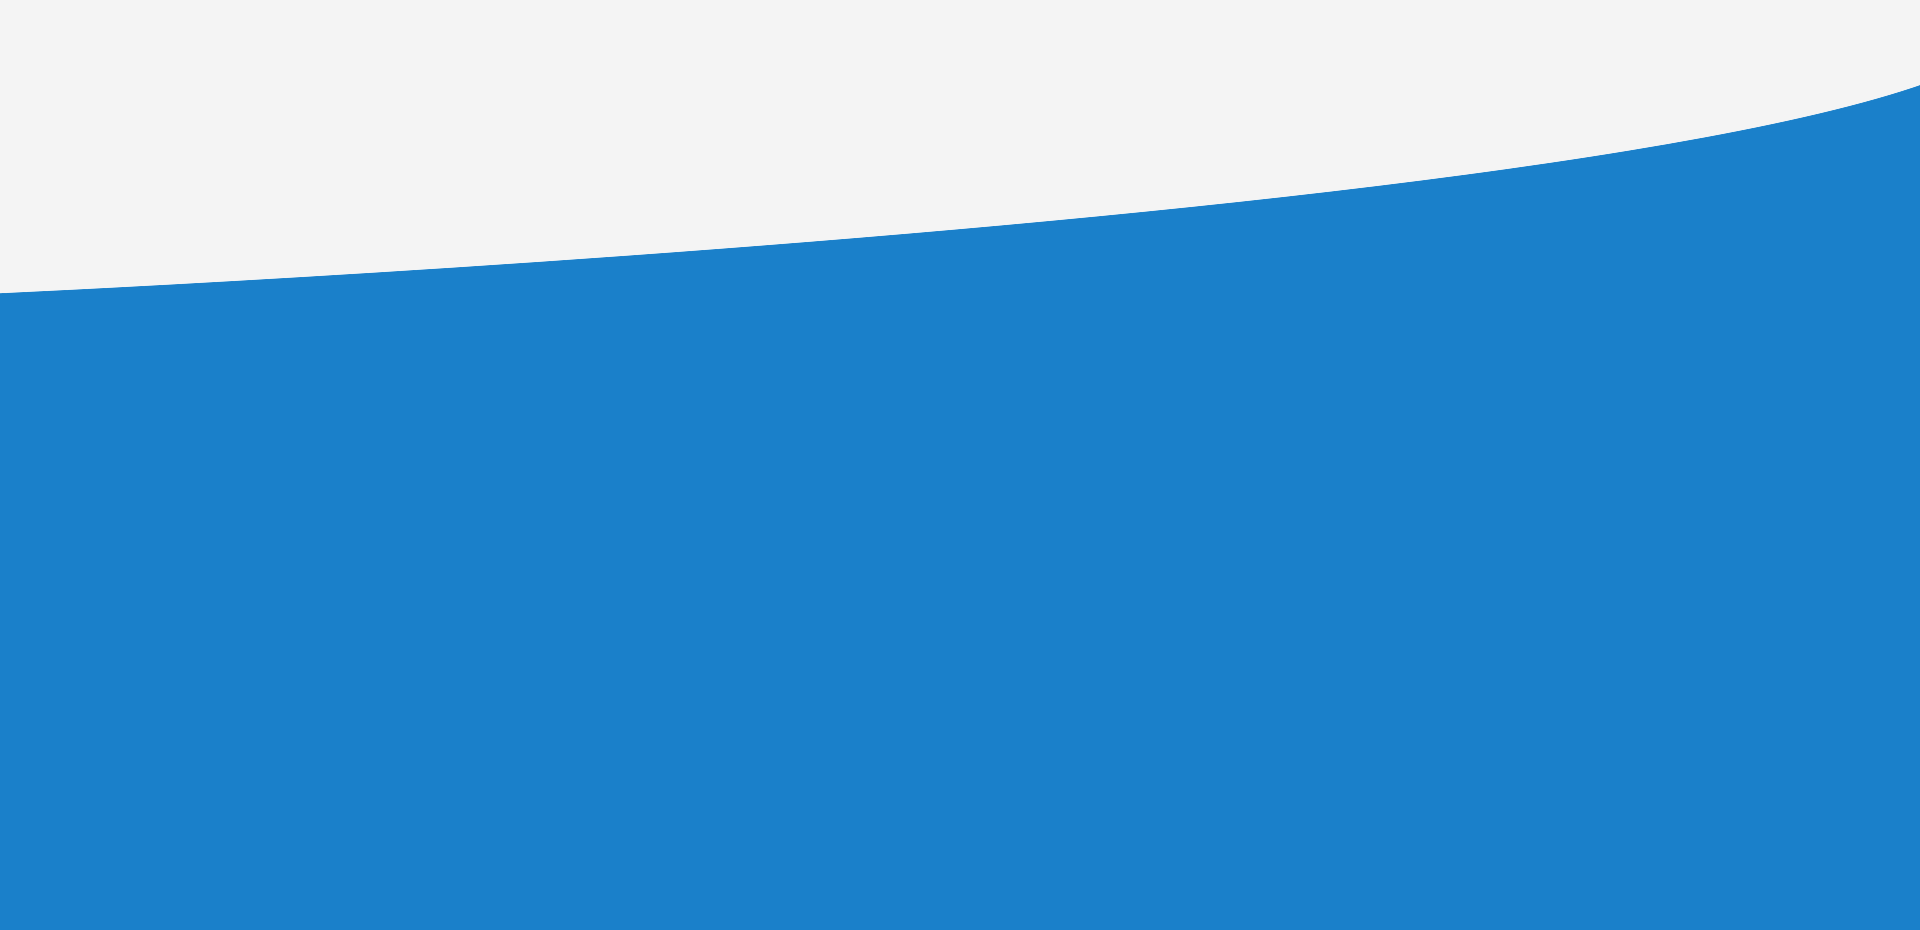
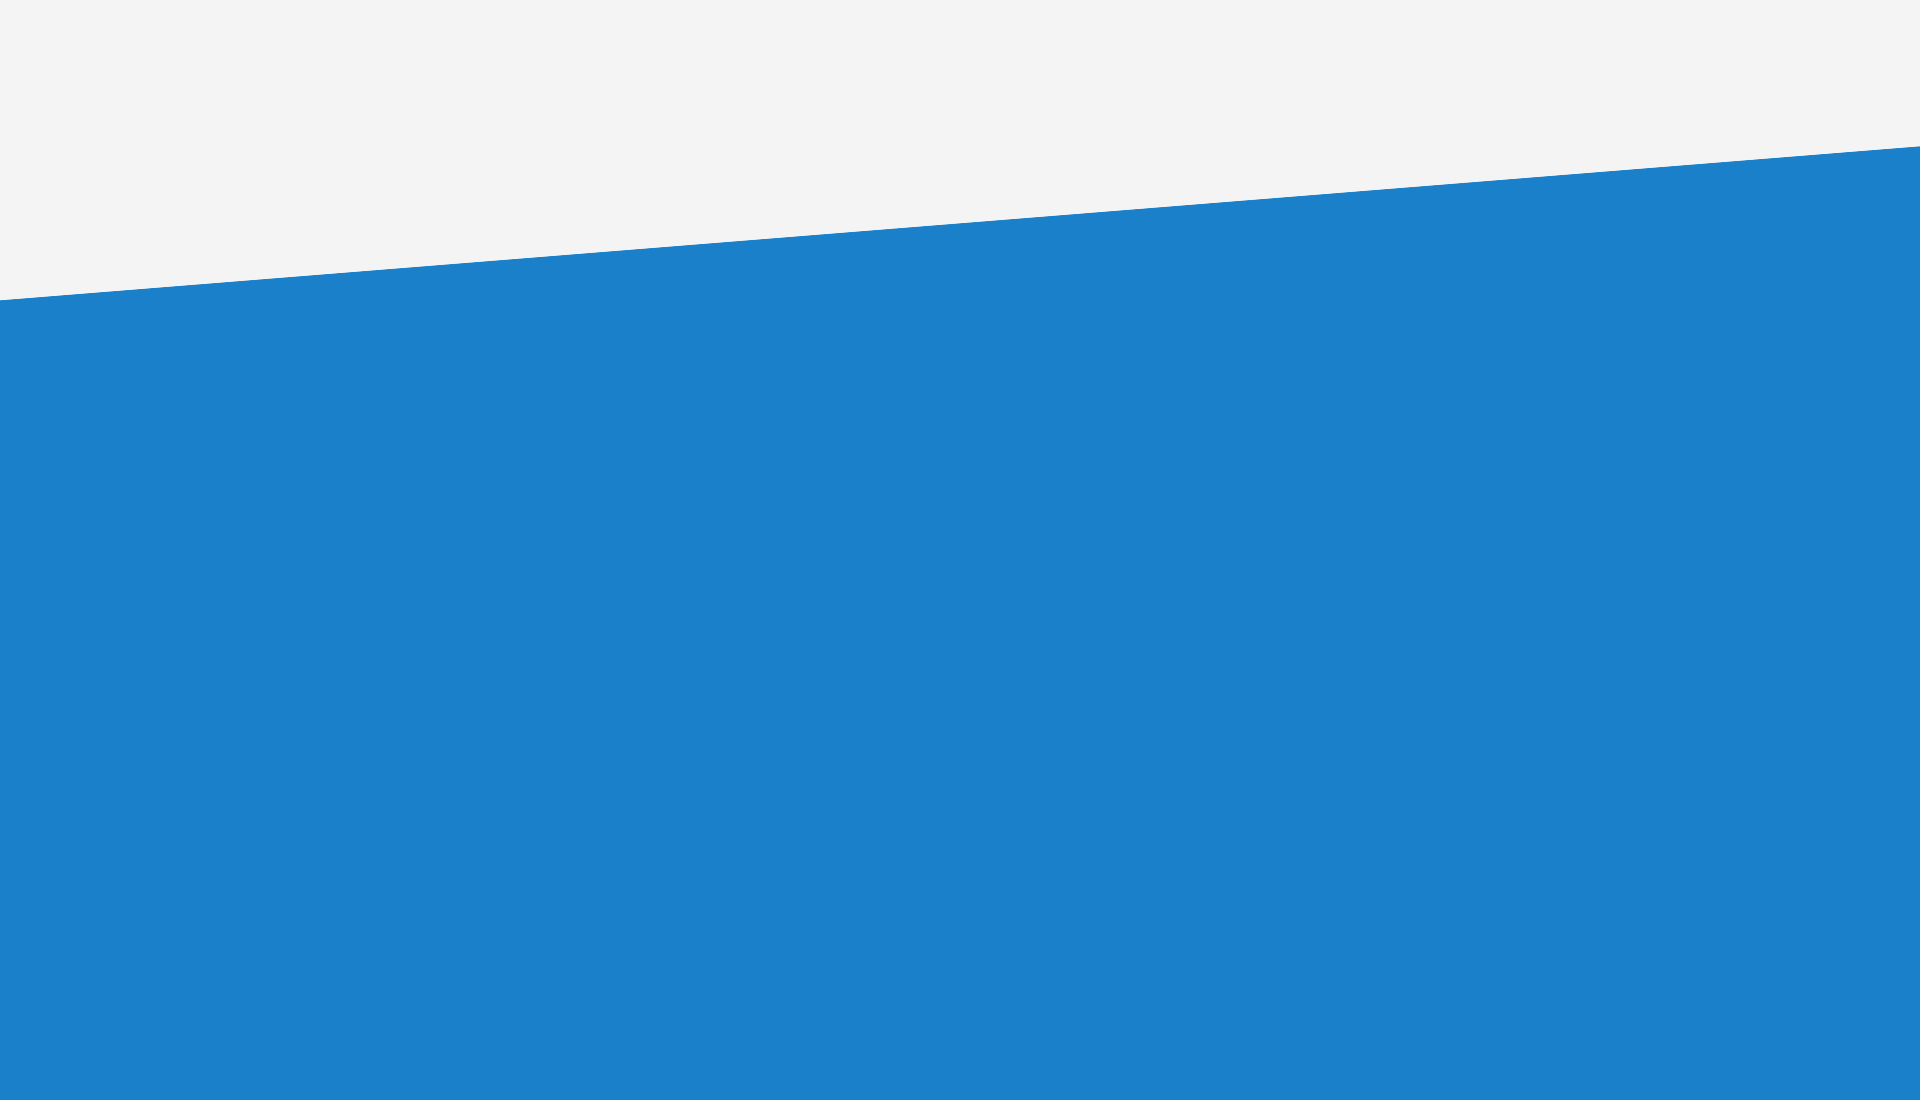
4 commit

Changed region(s): [[0.0, 0.1559, 0.8438, 0.3118], [0.8438, 0.0935, 1.0, 0.1559]]

diff --git a/src/components/Resume.vue b/src/components/Resume.vue
@@ -3,7 +3,7 @@
     <!-- <nav class="navbar navbar-light" style="background-color:#3d3d3d;height:31px;">
       <a class="navbar-brand" style="color:#ffffff;font-size:12px;">phanudetkawilai2016@gmail.com</a>
     </nav> -->
-    <nav class="navbar navbar-expand-lg navbar-light" style="border-bottom:1px solid #dddddd;background-color:#ffffff;">
+    <nav class="navbar navbar-expand-lg navbar-light fixed-top" style="border-bottom:1px solid #dddddd;background-color:#ffffff;">
       <div class="navbar-brand">
         <router-link to="/" style="text-decoration: none;">
           <img src="../assets/logo.png" width="35" height="35">
@@ -45,13 +45,109 @@
         </ul>
       </div>
     </nav>
+
     <div class="main-content">
       <div class="section-1-with-background" style="color:#ffffff;">
-        <div class="content-row-1">
-          <h1>Resume</h1>
+        <div class="content-row-1" >
+
+          <!-- <div class="content-inner">
+            <h1 style="font-size:60px;">My Resume</h1>
+            <div class="container" style="padding-top:20px;">
+              <div class="row">
+                <div class="col-sm">
+                  <img src="../assets/section-1resume1.png" alt="Card image cap" width="1163" height="521" style="pointer-events: none;">
+                </div>
+              </div>
+            </div>
+          </div> -->
+          <div class="content-inner" style="padding-top:30px;">
+            <h1 style="font-size:60px;">My Resume</h1>
+            <div class="show-img" style="padding-top:30px;">
+              <img src="../assets/section-1resume1.png" width="1163" height="521" style="pointer-events: none;">
+            </div>
+            <h1 style="font-size:41px;color:#3d3d3d;padding-top:60px;" class="text-download"><b>Download my resume</b></h1>
+            <div class="btn-to-download" style="padding-top:10px;">
+              <button>Download</button>
+            </div>
+            <div class="content-resume" style="padding-top:60px;">
+              <div class="container-fluid">
+                <div class="row">
+                  <div class="col-sm-1 icon-col">
+                    <img src="../assets/person-icon.png" style="text-align:left;pointer-events: none;">
+                  </div>
+                  <div class="col-sm-5 text-content" style="text-align:left;">
+                    <h1>Personal Info</h1>
+                    <p>
+                      <b>Name : Phanudet Kawilai</b><br>
+                      <b>Birthday : 30-06-1995 </b><br>
+                      <b>Age : 23 </b><br>
+                      <b>Nationality : Thai </b><br>
+                      <b>Race : Thai </b><br>
+                      <b>Religion : Buddhism </b><br>
+                      <b>Marital status: Single </b><br>
+                      <b>Phone : +66 8 4867 8738 </b><br>
+                      <b>Address : 99/64 Village No.4, Latkrathing Sub-district, Sanamchaikhet District, Chachoengsao, 24160 </b>
+                    </p>
+                  </div>
+                  <div class="col-sm-1 icon-col">
+                    <img src="../assets/skill-icon.png" style="pointer-events: none;">
+                  </div>
+                  <div class="col-sm-5 text-content" style="text-align:left;">
+                    <h1>Skills</h1>
+                    <p>
+                      <!-- <b>Vue.js</b> <i class="icon-skill"><img src="../assets/vue.png" width="50" height="50" style="text-align:left;pointer-events: none;"></i><br> -->
+                      <b>React Native</b><br>
+                      <b>Backend with Node.js</b><br>
+                      <b>Bootstrap</b><br>
+                      <b>HTML/CSS</b><br>
+                      <b>Javascript  </b><br>
+                    </p>
+                  </div>
+                </div>
+
+                <div class="row">
+                  <div class="col-sm-1 icon-col">
+                    <img src="../assets/education-icon.png" style="pointer-events: none;">
+                  </div>
+                  <div class="col-sm-5 text-content" style="text-align:left;">
+                    <h1>Education</h1>
+                    <p>
+                      <b>Name</b> : Phanudet Kawilai <br>
+                      <b>Birthday</b> : Phanudet Kawilai <br>
+                      <b>Age</b> : Phanudet Kawilai <br>
+                      <b>Nationality</b> : Thai <br>
+                      <b>Race</b> : Thai <br>
+                      <b>Religion </b> : Buddhism <br>
+                      <b>Marital status</b> : Single <br>
+                      <b>Phone</b> : +66 8 4867 8738 <br>
+                    </p>
+                  </div>
+                  <div class="col-sm-1 icon-col">
+                    <img src="../assets/rocket-icon.png" style="pointer-events: none;">
+                  </div>
+                  <div class="col-sm-5 text-content" style="text-align:left;">
+                    <h1>Experience</h1>
+                    <p>
+                      <b>Name</b> : Phanudet Kawilai <br>
+                      <b>Birthday</b> : Phanudet Kawilai <br>
+                      <b>Age</b> : Phanudet Kawilai <br>
+                      <b>Nationality</b> : Thai <br>
+                      <b>Race</b> : Thai <br>
+                      <b>Religion </b> : Buddhism <br>
+                      <b>Marital status</b> : Single <br>
+                      <b>Phone</b> : +66 8 4867 8738 <br>
+                    </p>
+                  </div>
+                </div>
+              </div>
+            </div>
+          </div>
         </div>
       </div>
     </div>
+    <!-- <div class="footer">
+      <a style="color:rgb(244, 244, 244);font-size:12px;">@ 2018 Developed by Phanudet Kawilai</a>
+    </div> -->
   </div>
 </template>
 
@@ -93,22 +189,113 @@ a {
   color: rgb(60, 135, 199);
 }
 
+.container-fluid {
+  width:1140px;
+}
+.icon-col img {
+  width: 70px;
+  height: 70px;
+  border-radius: 100px;
+
+  /* ------------- shadow All around -------------- */
+  -moz-box-shadow: 0 0 15px rgba(0, 0, 0, 0.2);
+  -webkit-box-shadow: 0 0 15px rgba(0, 0, 0, 0.6);
+  box-shadow: 0 0 15px rgba(0, 0, 0, 0.6);
+  /* ----------------------------------------------- */
+}
+
+.icon-col {
+  height:100px;
+}
+
+.text-content {
+  border-bottom: 1px solid #dddddd;
+  color: #3d3d3d;
+  /* background-color: red; */
+}
+.text-content h1 {
+  font-size: 30px;
+  font-weight: bold;
+}
+.text-content p {
+  font-size: 20px;
+}
+
+.icon-skill {
+  margin-left:330px;
+}
+
+.section-1-with-background {
+  height: 800px;
+  background-image: url('../assets/section-1resume.png');
+}
+
+.content-row-1 {
+  padding-top: 100px;
+}
+
+.btn-to-download button {
+  width:205px;
+  height:53px;
+  border-radius: 100px;
+  border: 2px solid #3c87c7;
+  background-color: #3c87c7;
+  color:#fff;
+  margin: 0 5px;
+  font-size: 22px;
+  box-shadow: 0 8px 16px 0 rgba(0,0,0,0.2), 0 6px 20px 0 rgba(0,0,0,0.19);
+}
+.btn-to-download button:hover {
+  background-color:#3d3d3d;
+  border: none;
+  transition: 0.3s;
+  border-radius: 15px;
+}
+
 @media (max-width: 980px) {
   .navbar-brand {
-    margin-left:20px;
+    margin-left: 5px;
   }
   .navbar-nav {
     font-size:18px;
     margin-right: auto;
   }
+
+  .show-img img {
+    height: 158px;
+    width: 320px;
+  }
+
+  .text-download b{
+    color: #fff;
+    font-size: 25px;
+  }
+
+  .container-fluid {
+    width: 100%;
+  }
+  .icon-col {
+    padding-top: 20px;
+  }
+  .icon-col img {
+    width: 100px;
+    height: 100px;
+  }
+
+  .text-content {
+    padding-top: 50px;
+  }
+  .icon-col {
+    padding-top: 40px;
+  }
+
+  .text-content h1 {
+    text-align: center;
+    padding-top: 20px;
+  }
+  .icon-skill {
+    margin-left:30px;
+  }
 }
 
-.section-1-with-background {
-  height: 620px;
-  background-image: url('../assets/section-1.png');
-}
-
-.content-row-1 {
-  padding: 50px;
-}
 </style>

diff --git a/src/components/Home.vue b/src/components/Home.vue
@@ -82,7 +82,13 @@
                 <div class="col-sm text-1" style="padding-top:200px;text-align: left;">
                   <h1 style="font-size:60px;">Hello...</h1>
                   <p style="font-size:35px;">I'm Phanudet Kawilai</p>
-                  <p style="font-size:16;">I am interested in Web / App Development career. I am a productive team player, fast learning and hard working, Able to work under pressure</p>
+                  <p style="font-size:16;">
+                    I am interested in Web / App Development career. I am a productive team player,
+                    I would like to learn new things, fast learning,
+                    and come to work on time and were responsible for the work assigned.
+                    I completed the work by a specified time.
+                    I'm a very hard-working person and highly dedicated to work.
+                  </p>
                   <br>
                   <div class="btn-to-link">
                     <router-link to="/resume">
@@ -250,7 +256,7 @@ a {
   }
 
   .section-1-with-background {
-    height: 930px;
+    height: 1100px;
     background-image: url('../assets/section-1home-for-m.png');
   }
 
@@ -258,8 +264,8 @@ a {
     text-align: center;
   } */
   .btn-to-link button {
-    width: 72px;
-    height: 72px;
+    width: 82px;
+    height: 82px;
     margin-top: 10px;
   }
   .footer {

diff --git a/src/App.vue b/src/App.vue
@@ -15,7 +15,7 @@ export default {
 @import url('https://fonts.googleapis.com/css?family=Nunito');
 @import url('https://fonts.googleapis.com/css?family=Kanit');
 #app {
-  font-family: 'Nunito', Helvetica, Arial, sans-serif;
+  font-family: 'Nunito', Kanit, Helvetica, Arial, sans-serif;
   -webkit-font-smoothing: antialiased;
   -moz-osx-font-smoothing: grayscale;
   text-align: center;

diff --git a/src/components/CV.vue b/src/components/CV.vue
@@ -88,7 +88,7 @@ a {
 
 @media (max-width: 980px) {
   .navbar-brand {
-    margin-left:20px;
+    margin-left: 5px;
   }
   .navbar-nav {
     font-size:18px;

diff --git a/src/components/Contact.vue b/src/components/Contact.vue
@@ -88,7 +88,7 @@ a {
 
 @media (max-width: 980px) {
   .navbar-brand {
-    margin-left:20px;
+    margin-left: 5px;
   }
   .navbar-nav {
     font-size:18px;

diff --git a/src/components/Grade.vue b/src/components/Grade.vue
@@ -88,7 +88,7 @@ a {
 
 @media (max-width: 980px) {
   .navbar-brand {
-    margin-left:20px;
+    margin-left: 5px;
   }
   .navbar-nav {
     font-size:18px;

diff --git a/src/components/Portfolio.vue b/src/components/Portfolio.vue
@@ -88,7 +88,7 @@ a {
 
 @media (max-width: 980px) {
   .navbar-brand {
-    margin-left:20px;
+    margin-left: 5px;
   }
   .navbar-nav {
     font-size:18px;
